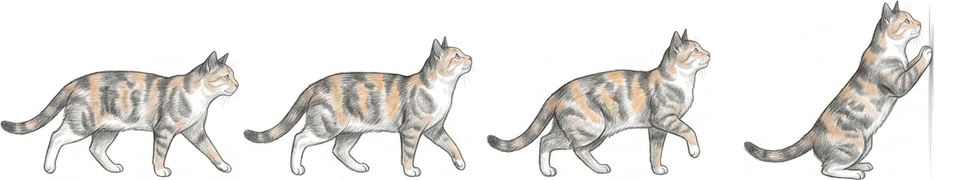
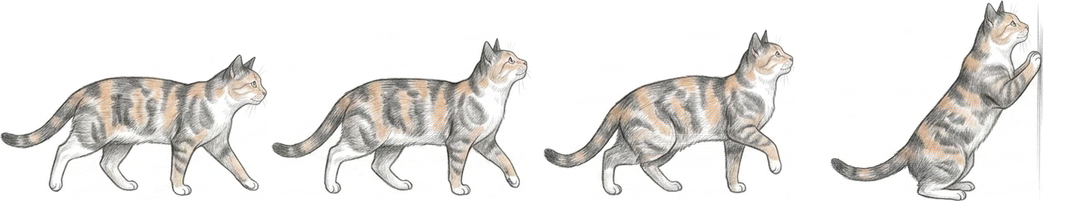
고양이 밑판을 번지는 흰 얼룩으로 · 스터디 글 추가
- sleep 프레임에서 윗칸 꼬리 혼입 제거
- 실루엣 헤일로를 크게 흐려 종이가 번진 듯한 soft edge 로 —
  본문 글자 위를 지나도 부드럽게 가려질 뿐 선끼리 겹치지 않는다
- 스터디 글: 고양이 사진을 마스코트 스프라이트로 만들기 (딕 7페이지)

diff --git a/src/content/study/gemini-cat-sprite.md b/src/content/study/gemini-cat-sprite.md
@@ -1,0 +1,48 @@
+---
+title: 고양이 사진을 웹사이트 마스코트 스프라이트로 만들기
+description: 우리집 고양이 사진 한 장을 Gemini로 연필 소묘 스프라이트 시트로 그리고, 프레임을 잘라 사이트 하단을 어슬렁거리는 마스코트로 조립한다.
+date: 2026-08-29
+tags: [create image, prompt, sprite, gemini]
+thumbnail: /captures/cat-walk-sheet.webp
+---
+
+이 사이트 하단을 돌아다니는 고양이는 우리집 고양이 사진에서 출발했다. 사진을 손그림 애니메이션으로 자동 변환해 주는 도구는 없지만, 이미지 생성 모델에게 "이 고양이를 이 그림체로, 동작을 나눠서" 그려 달라고 하면 프레임 재료가 나온다. 나머지는 자르고 조립하는 일이다.
+
+## 사진 한 장을 걷기 8프레임으로
+
+![](/captures/cat-walk-sheet.webp)
+
+1. 고양이 사진을 첨부하고 "걷기 한 사이클을 정확히 8프레임, 가로 한 줄로" 요청한다. 프레임이 한 장에 나란히 담긴 이미지를 스프라이트 시트라고 한다
+2. 그림체를 사이트 삽화와 같은 연필 소묘로 고정한다 — soft graphite pencil drawing, fine hatching strokes
+3. 프레임마다 크기와 무늬가 같아야 한다고 명시한다 — same cat, same size in every frame. 이 조건이 빠지면 프레임마다 다른 고양이가 나온다
+4. 흰 배경, 바닥 그림자 없음, 격자선·글자 없음을 조건으로 건다. 뒤 단계의 자동 절단이 흰 여백을 기준으로 삼기 때문이다
+
+## 동작마다 시트 하나씩
+
+![](/captures/cat-turn-sheet.webp)
+
+1. 같은 대화에서 이어서 요청해야 무늬와 그림체가 유지된다
+2. 걷기 외에 방향 전환·벽 짚고 서기·기지개·엎드리기·뒹굴기·그루밍 시트를 하나씩 받았다
+3. 방향 전환 시트의 핵심은 웅크리며 도는 중간 컷이다. 좌우 반전을 이 컷 순간에 걸면 이미지가 뒤집히는 게 눈에 띄지 않는다
+4. 생성 모델은 왼쪽을 보고 걷는 프레임을 잘 못 그린다 — 전부 오른쪽 보기로 받고, 왼쪽 걷기는 반전으로 처리하되 그 반전을 방향 전환 컷 뒤에 숨긴다
+
+## 프레임 절단과 흰 배경 처리
+
+![](/captures/cat-grooming-sheet.webp)
+
+1. 시트마다 프레임 배치가 4×2, 5+4처럼 제각각이라 좌표를 손으로 적지 않았다. 흰 여백의 가로·세로 띠를 찾아 칸을 자동 감지하면 코드 하나로 모든 시트가 잘린다
+2. 배경 제거는 지우개 방식이 아니라 color-to-alpha(white)를 썼다. "흰색에서 얼마나 멀어졌나"를 투명도로 환산해서 연필 선의 농담이 반투명으로 살아남는다
+3. 투명 그대로 두면 본문 글자 위를 지날 때 선끼리 겹쳐 서로 방해된다. 프레임의 실루엣을 흐려 만든 흰 밑판을 함께 구워, 종이가 번진 듯한 흰 얼룩이 고양이를 따라다니게 했다
+4. 프레임들을 바닥 기준으로 정렬해 한 줄로 합치면 끝 — 화면에서는 배경 이미지의 x 위치를 계단식으로 옮기는 것만으로 애니메이션이 된다
+
+## 움직임 설계
+
+1. 기본 동선은 순찰이다. 왼쪽 끝에서 오른쪽 끝까지 걷고, 오른쪽 끝에서는 벽을 짚고 섰다가 내려온다
+2. 걷는 중간에 확률로 행동이 끼어든다 — 그루밍·앉기·기지개·엎드리기·뒹굴기·웅크려 잠. 매번 추첨이라 동선이 반복돼 보이지 않는다
+3. 자는 동안 클릭하면 기지개를 켜고 일어난다. 장식은 반응할 때 마스코트가 된다
+4. 움직임 최소화(prefers-reduced-motion) 설정에서는 걷지 않고 앉아만 있는다. 장식이 접근성을 해치면 안 된다
+
+## 확인하지 못한 것
+
+- 시트 사이의 무늬 완전 일치는 포기했다. 같은 대화에서 이어가도 조금씩 달라지는데, 화면 60px 크기에서는 구분되지 않는다
+- 프레임 수를 늘리면(12~16) 더 부드러워질 텐데, 8프레임 이상을 한 줄에 고르게 그려 주는지는 시험하지 않았다
